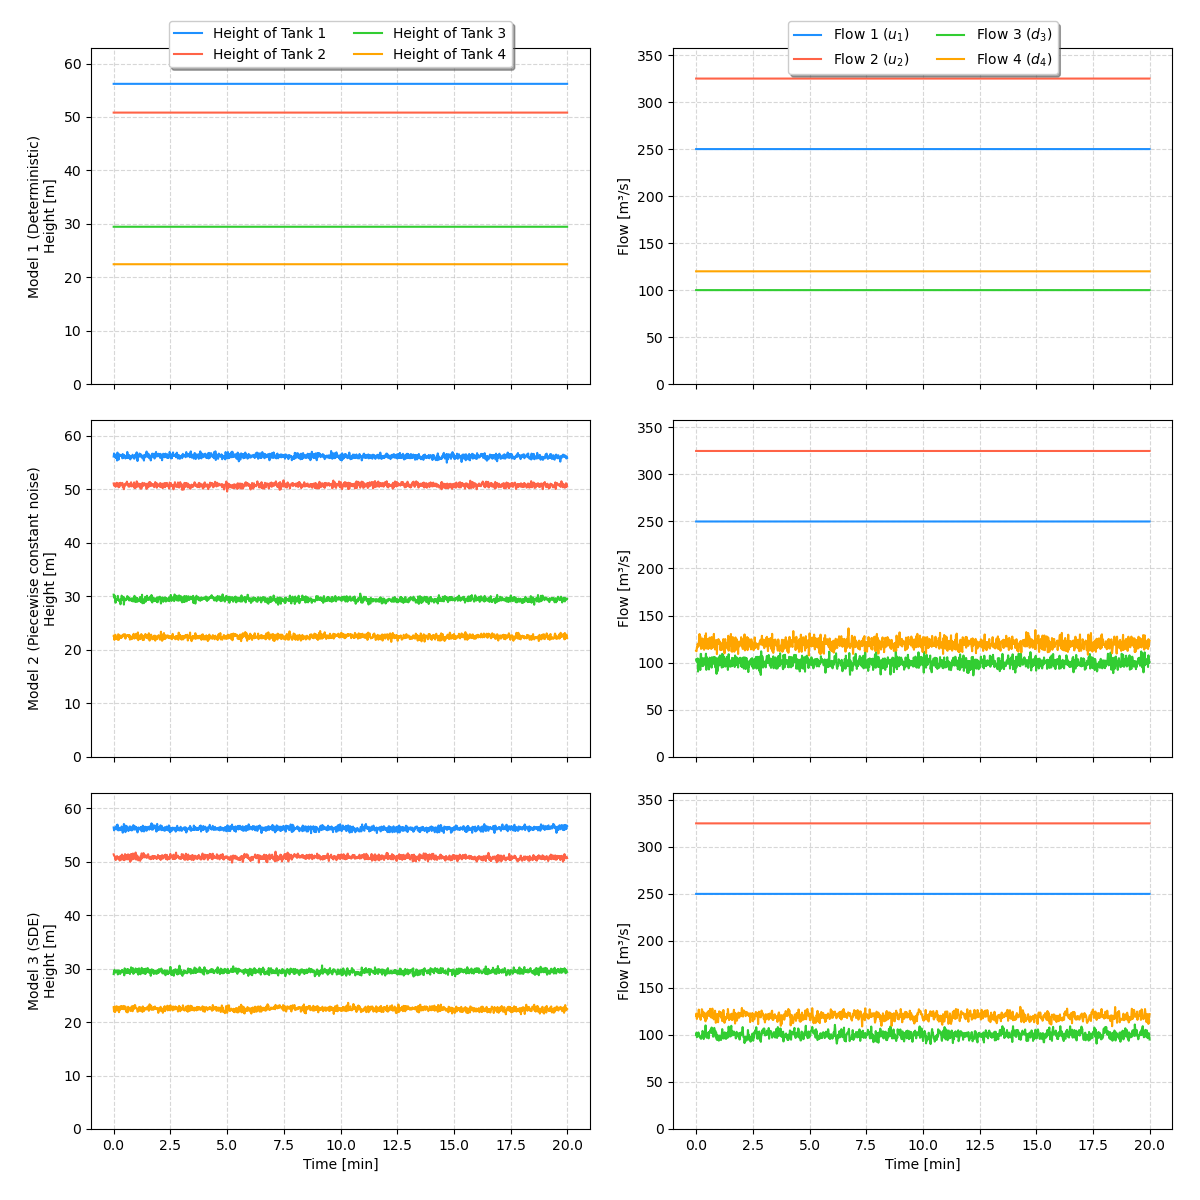
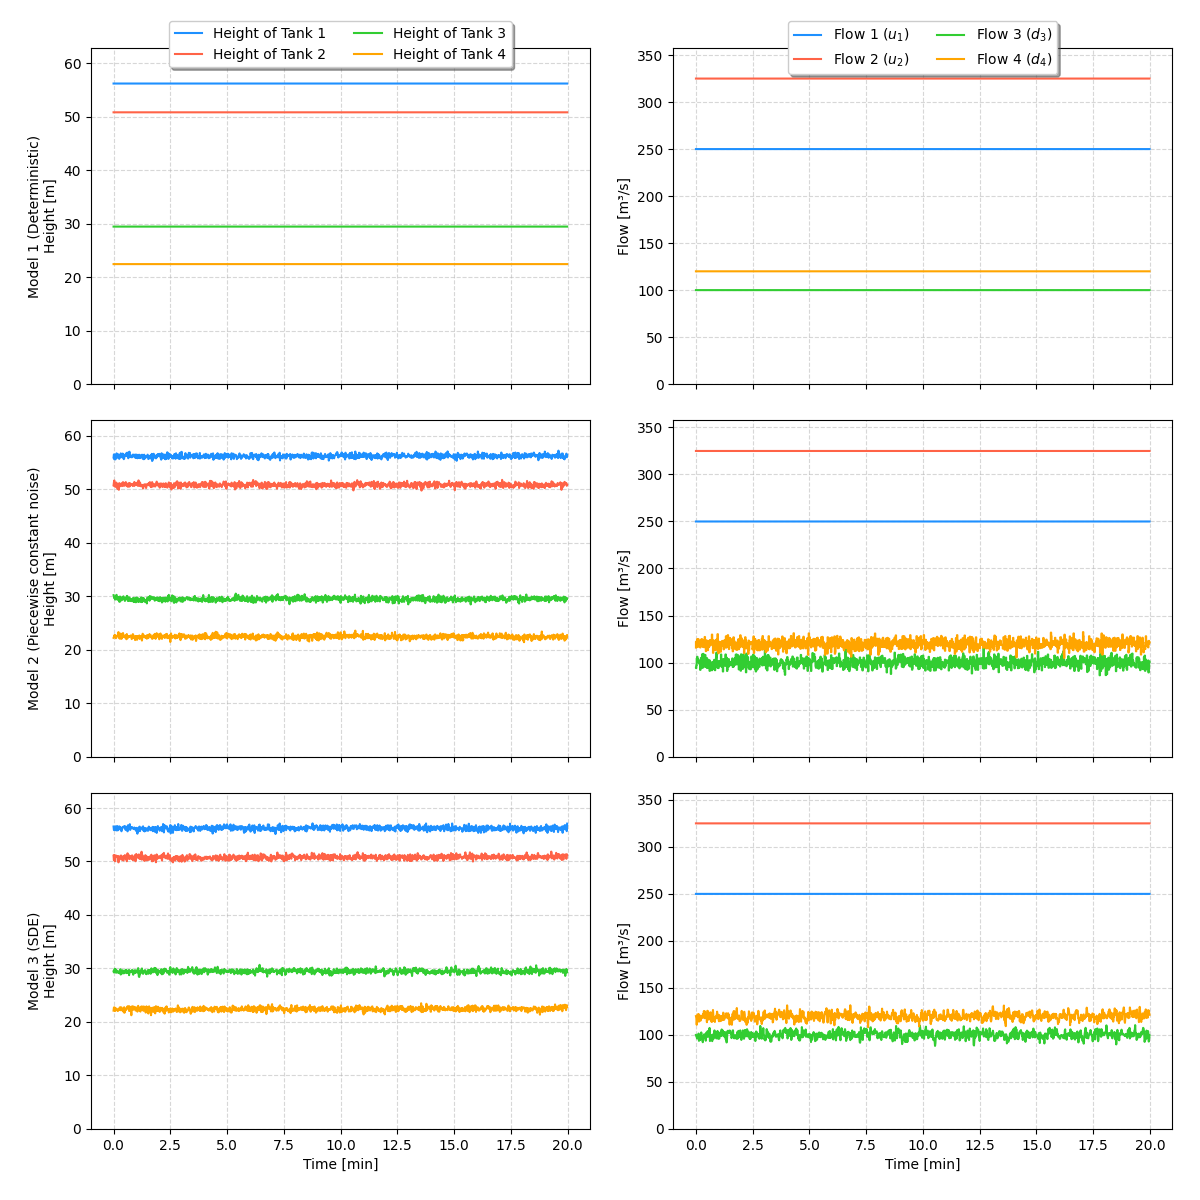
problem 5

diff --git a/src/FourTankSystem.py b/src/FourTankSystem.py
@@ -221,19 +221,20 @@ class FourTankSystem:
                     [0, 0,-1/T[2], 0],
                     [0, 0, 0,-1/T[3]]])
         B=np.array([[self.rho*self.gamma[0], 0],[0, self.rho*self.gamma[1]],[0, self.rho*(1-self.gamma[1])],[self.rho*(1-self.gamma[0]), 0]])
+        E = np.array([[0,0],[0,0],[self.rho,0],[0,self.rho]])
         C=np.diag(1./(self.rho*A_vals))
         Cz=C[:2,:]
 
-        return A,B,C,Cz
+        return A,B,C,E,Cz
 
     def LinearizeContinousTime(self,xs,d):
 
         xs, is_deterministic = self.SetLoopStates(xs,d)
 
-        Ass, Bs, C, Cz = self.LinearizeDeterminitistic(xs)
+        Ass,Bs,C,E,Cz = self.LinearizeDeterminitistic(xs)
 
         if is_deterministic:
-            return Ass,Bs,C,Cz
+            return Ass,Bs,C,E,Cz
         
         Ads = np.array([[0,0],
                         [0,0],
@@ -249,15 +250,8 @@ class FourTankSystem:
 
         Bd = np.zeros((2,2))
         Bc = np.block([[Bs],[Bd]])
-
-        Ec = np.array([[0,0],
-                      [0,0],
-                      [self.rho,0],
-                      [0,self.rho],
-                      [-self.a_f3,0],
-                      [0,-self.a_f4]])
         
-        return Ac,Bc,Ec,C,Cz
+        return Ac,Bc,C,Cz
     
 
 

diff --git a/Problem_5.py b/Problem_5.py
@@ -3,6 +3,8 @@ from src.FourTankSystem import FourTankSystem
 import params.parameters_tank as para
 import matplotlib.pyplot as plt
 from numpy.linalg import eig, inv, solve
+import control as ctrl
+import sympy as sp
 
 t0 = 0
 tf = 20*60 
@@ -26,7 +28,7 @@ delta_t = 1
 # Linearize continous time
 Model_Deterministic = FourTankSystem(R_s*0, R_d*0, p, delta_t)
 xs = Model_Deterministic.GetSteadyState(x0, u, d)
-Ac,Bc,C,Cz = Model_Deterministic.LinearizeContinousTime(xs,d)
+Ac,Bc,Ec,C,Cz = Model_Deterministic.LinearizeContinousTime(xs,d)
 print(Ac)
 print(Bc)
 print(C)
@@ -37,12 +39,14 @@ M = np.block([
             [Cz, np.zeros((2,2))]
         ])
 N = np.block([[np.identity(Ac.shape[0]),np.zeros((4,2))],
-             [np.zeros((2,2)),np.zeros((2,2))]])
+             [np.zeros((2,4)),np.zeros((2,2))]])
 
-zeros = eig(np.array([M,N]))[0]
+zeros = eig(np.array([M,N]))[0][0]
 poles = eig(Ac)[0]
 print("Poles:",poles,"\nSystem stable:",np.all(poles<0))
 print("zeros:",zeros,"\nController stable:",np.all(zeros<0))
-G_transfer = lambda s: C @ np.linalg.inv(s*np.eye(Ac.shape[0]) - Ac) @ Bc
+
+
+
 
 

diff --git a/Problem_2.py b/Problem_2.py
@@ -53,7 +53,7 @@ for i in range(4):
             color=colors[i], ls=ls[0]
         )
     else:   
-        axes[0,1].plot(
+        axes[0,1].step(
             t/60, d_out[i-2, :],
             label=f'Flow {i+1} ($d_{i+1}$)',
             color=colors[i],
@@ -83,7 +83,7 @@ for i in range(4):
             ls=ls[1]
         )
     else:
-        axes[1,1].plot(
+        axes[1,1].step(
             t/60, d_out[i-2, :],
             label=f'Flow of Tank {i+1} ($d_{i+1}$)',
             color=colors[i],
